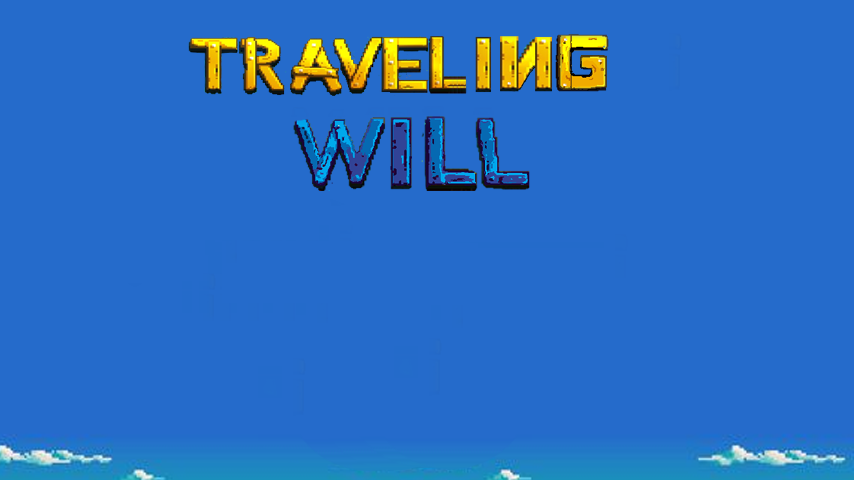
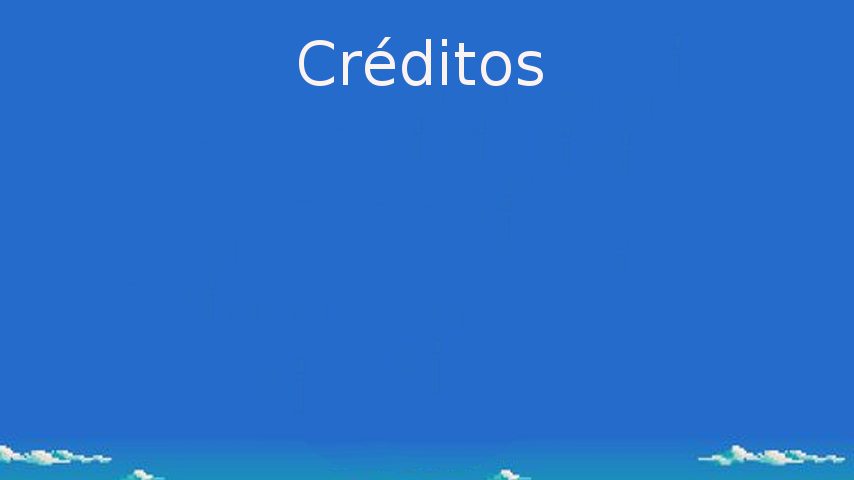
Creating logic to back button in menu

Changed region(s): [[0.2131, 0.0625, 0.7307, 0.4062]]

diff --git a/src/button.cpp b/src/button.cpp
@@ -3,13 +3,22 @@
 #include <ijengine/canvas.h>
 
 Button::Button(int b_id, string level, double b_x, double b_y, string img, double b_w, double b_h) :
-    m_id(b_id), m_img(img), m_level(level), m_x(b_x), m_y(b_y), m_img_h(b_h), m_img_w(b_w){
+    m_id(b_id), m_able_draw(1), m_img(img), m_level(level), m_x(b_x), m_y(b_y), m_img_h(b_h), m_img_w(b_w){
     
     m_texture = resources::get_texture(level + "/" + img);
 }
 
 Button::~Button(){
 
+}
+
+// 1 if able to draw, 0 otherwise
+void Button::set_able_to_draw(int num){
+    m_able_draw = num;
+}
+
+int Button::able_to_draw(){
+    return m_able_draw;
 }
 
 double Button::x(){
@@ -28,6 +37,10 @@ double Button::h(){
     return m_img_h;
 }
 
+string Button::level(){
+    return m_level;
+}
+
 int Button::id(){
     return m_id;
 }
@@ -36,5 +49,7 @@ void Button::update_self(unsigned, unsigned){
 }
 
 void Button::draw_self(Canvas *canvas, unsigned, unsigned){
-    canvas->draw(m_texture.get(), m_x, m_y);
+    if(m_able_draw == 1){
+        canvas->draw(m_texture.get(), m_x, m_y);
+    }
 }

diff --git a/include/button.h b/include/button.h
@@ -19,14 +19,17 @@ class Button : public GameObject {
         double h();
         double x();
         double y();
+        string level();
         int id();
+        int able_to_draw();
+        void set_able_to_draw(int num);
 
     protected:
         void update_self(unsigned now, unsigned last);
         void draw_self(Canvas *canvas, unsigned now, unsigned last);        
 
     private:
-        int m_id;
+        int m_id, m_able_draw;
         string m_img, m_action, m_level;
         double m_x, m_y, m_img_h, m_img_w;
         shared_ptr<Texture> m_texture;
